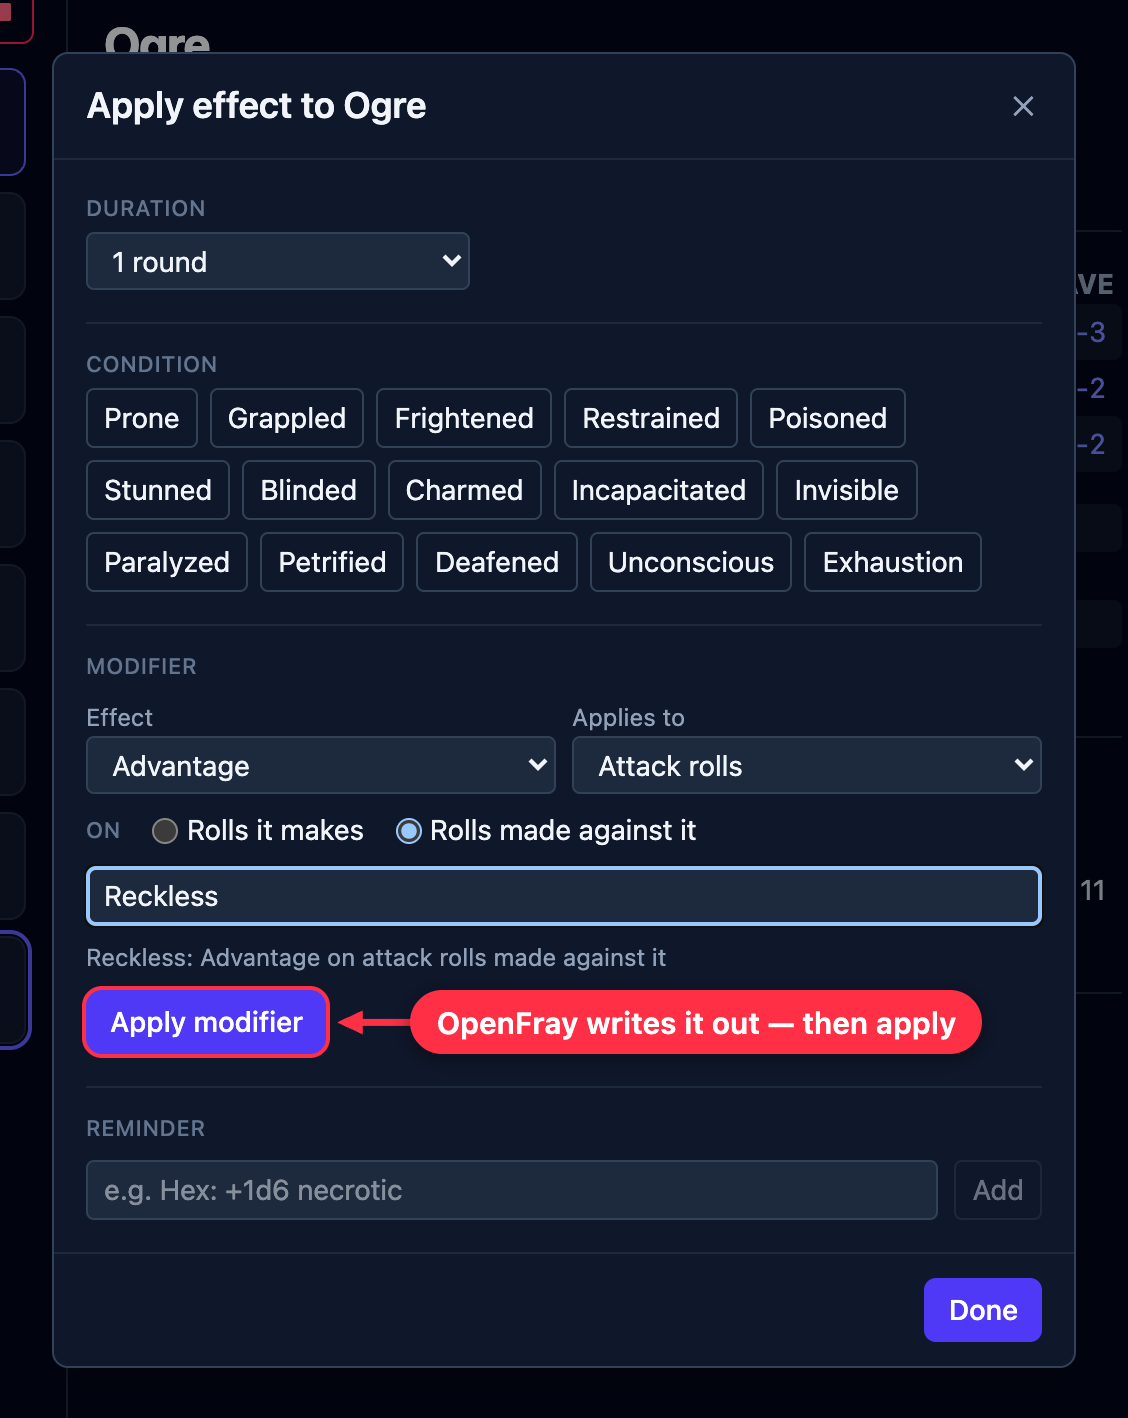
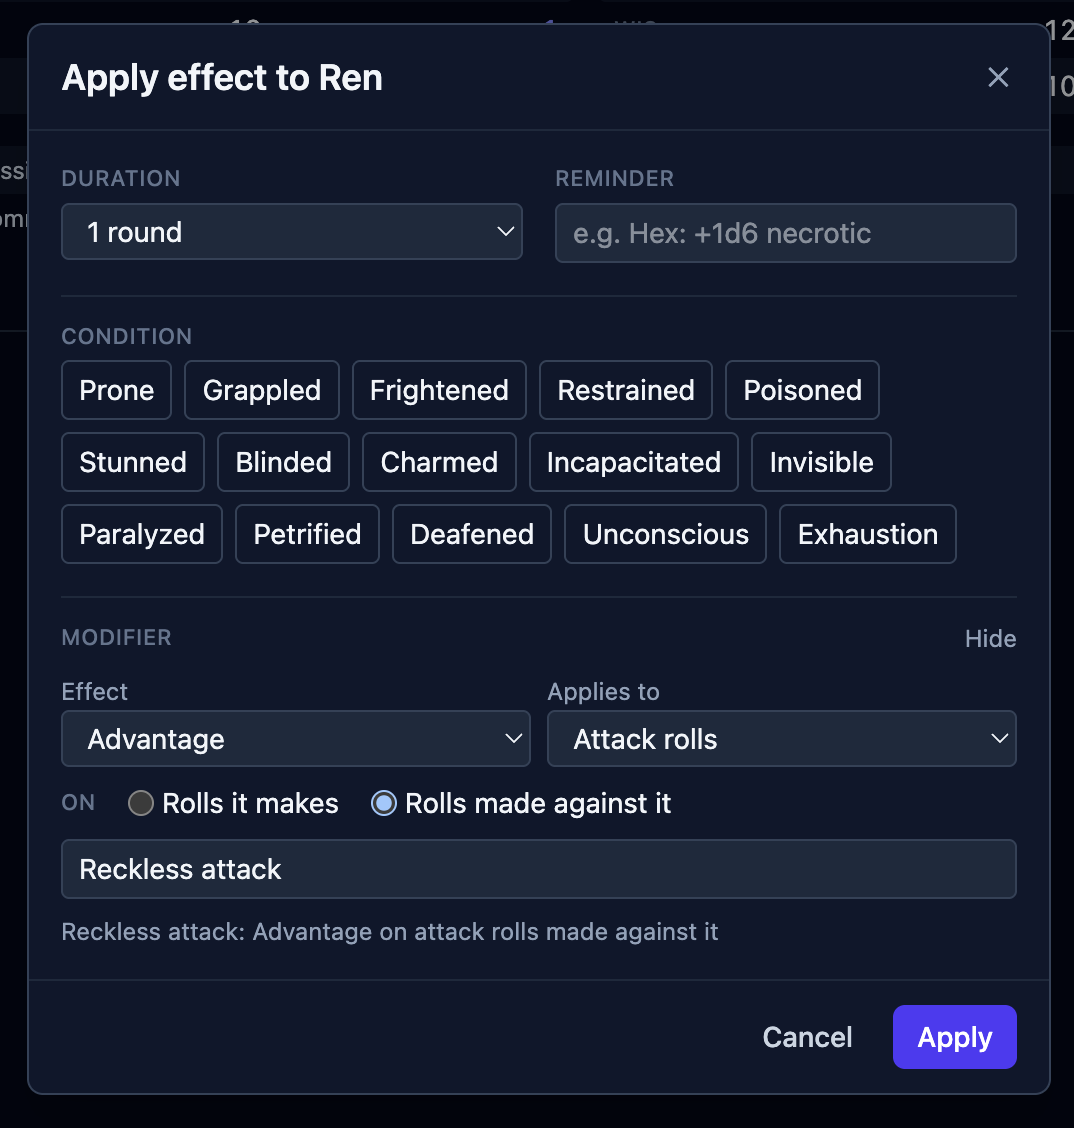
Handbook: screenshots and alt text through the Running a fight section
Captures the screenshots the Spells, Concentration, Creature resources, and
Rests pages were waiting on, and writes alt text for all of them (plus the
new Effects modifier-builder shot). Also picks up the re-shot images the
review replaced along the way.

diff --git a/docs/src/content/docs/fight/effects.md b/docs/src/content/docs/fight/effects.md
@@ -31,8 +31,7 @@ put several things on the same creature before closing it.
 
 ![The Apply effect box, with its duration, condition, modifier and reminder sections outlined in red and numbered one to four.](../../../assets/screens/apply-effect.png)
 
-**1 · Set how long it lasts, first.** This one setting applies to everything you add
-while the box is open, so start here:
+**1. Set how long it lasts.** This setting applies to everything you add while the box is open, so start here:
 
 | Choice                      | Use it for                                                                                                                                                  |
 | --------------------------- | ----------------------------------------------------------------------------------------------------------------------------------------------------------- |
@@ -44,59 +43,58 @@ while the box is open, so start here:
 Change it later and everything you've already added in this box changes with it — so
 it's fine to tap a condition first and pick the duration after.
 
-**2 · Tap a condition.** Prone, Grappled, Frightened, and the rest. These are toggles:
-the ones already on the creature are highlighted, and tapping one again takes it off.
+**2. Set a reminder.** Type in a short note. OpenFray shows it in the **tracker row** for that combatant and reminds you; you decide what it does.
 
-**3 · Or build a bonus.** Three dropdowns make a sentence — _what_ it does (advantage,
-disadvantage, or a number), _what it applies to_ (attacks, saves, checks, or everything),
-and _whose rolls_ (the creature's own, or rolls made against it). Give it a name, like
+**3. Apply a codition.** Optionally, add a condition. These are toggles: the ones already on the creature are highlighted, and tapping one again takes it off.
+
+**4. Add a bonus or penalty.** _What_ it does (advantage, disadvantage, or a number),
+_what it applies to_ (attack rolls, saving throws, ability checks, or everything),
+and _whose rolls_ (the combatant's own, or rolls made against it). Give it a name, like
 Bless or Reckless, so you recognize it on the board later. OpenFray spells out what
-you've built in plain English; press **Apply modifier** when it reads right.
+you've built in plain English.
 
-**4 · Or just leave a note.** For anything that doesn't fit the boxes above, type a
-reminder and press **Add**. OpenFray shows it and reminds you; you decide what it does.
+![The Modifier builder in the Apply effect box: an Effect and Applies-to dropdown, an On choice, a Label field, and a plain-English summary line.](../../../assets/screens/add-bous-penalty-effect.png)
+
+**5. Save the effect.** Click on **Apply** to add the effect, its conditions, and modifiers to the combatant.
 
 Whatever you've added is listed along the bottom of the box. **Done** closes it.
 
-:::tip[Casting a spell? Don't come here first]
-When a spell leaves something behind, **Cast spell** offers to put it on the board for
-you — already named, already timed, already linked to concentration. This box is for
-everything else: the things nothing in the app knows about. See
-[Spells](/docs/fight/spells/).
+:::tip[Casting a spell?]{icon="pen"}
+If you are casting a spell, use the **Cast spell** flow instead. It already applies
+all the conditions, modifiers, and timers for you. This box is for everything else
+that OpenFray doesn't already know about. See [Spells](/docs/fight/spells/).
 :::
 
-## Two worked examples
+### Two examples
 
-### "I attack recklessly"
+#### Reckless Attack
 
 The barbarian's player announces it. There's no spell to cast and nothing on any stat
-block — but for the rest of the round, attacks against him land more easily, and that's
-the sort of thing you'll otherwise forget by the time the ogre swings.
+block — but for the rest of the round, attacks against them land more easily, and that's
+the sort of thing you'll otherwise forget by the time the enemy swings.
 
-![The Apply effect box set up for Reckless: Advantage on attack rolls made against it, with the summary line and Apply modifier.](../../../assets/screens/example-reckless.png)
+![The Apply effect box set up for Reckless: Advantage on attack rolls made against it, with the summary line text.](../../../assets/screens/example-reckless.png)
 
-1. Click the barbarian, then **Apply effect**.
-2. **Duration → 1 round**, so it clears itself when his turn comes round again.
-3. In **Modifier**: _Advantage_ · on _Attack rolls_ · on **Rolls made against it**. That
-   last choice is the one to get right — it's not his attacks that change, it's everyone
-   else's attacks on him.
-4. Name it **Reckless**, so the badge on his row says why.
-5. Check the line OpenFray writes back — _"Reckless: Advantage on attack rolls made
-   against it"_ — and press **Apply modifier**.
+1. Click the player's character, then **Apply effect**.
+2. **Duration → 1 round**, so it clears itself when their turn comes round again.
+3. Click on **Add a bonus or penatly** to add the modifier.
+4. Set the **Effect** to **Advantage**, **Applies to** to **Attack rolls** and **On** to **Rolls made against it**.
+5. Set the label to **Reckless attack**, so the badge on their row says why.
+6. Click **Apply**.
 
-Now when the ogre swings at him, OpenFray rolls with advantage on its own, shows both
-dice, and names Reckless as the reason.
+Now when the a creature swings at them, OpenFray rolls with advantage on its own, shows both
+dice, and names _Reckless attack_ as the reason.
 
 ### Something you just made up
 
-A flask of oil goes over the floor. There's no condition for that and no spell involved —
+A creature throws a flask of oil on a player and they are now covered in oil. There's no condition for that and no spell involved —
 you just don't want to forget it two rounds from now.
 
 ![The Apply effect box with a free-text reminder typed into the Reminder field.](../../../assets/screens/example-reminder.png)
 
-1. Click whoever is standing in it, then **Apply effect**.
+1. Click on the player, then **Apply effect**.
 2. **Duration → Until removed**, because it ends when the story says so.
-3. Type the note in **Reminder** and press **Add**.
+3. Type the note in **Reminder** and press **Apply**.
 
 It becomes a badge on their row like any other effect. OpenFray shows the reminder and
 keeps it in front of you until you clear it, but it doesn't apply any effect for you — a
@@ -104,7 +102,7 @@ reminder is a note, and you decide what it means.
 
 ## Where effects show up
 
-Each effect shows as a small **badge** under the creature's name in the tracker — just
+Each effect and reminder shows as a small **badge** under the combatants's name in the tracker — just
 the name, so the row stays easy to read at a glance.
 
 ![A tracker row for an Ogre with a Frightened badge under its name, outlined in red.](../../../assets/screens/effect-badge.png)
@@ -117,15 +115,16 @@ There, each effect shows how it ends and carries its own buttons.
 - **Clear** removes it.
 - For an effect that ends on a save, **Roll save** rolls it, and the line shows the
   ability and number needed.
+- **Clear effects** removes all the applied effects at once.
 
 ## How long effects last
 
-Every effect knows when it ends, and the Applied effects list tells you:
+Every effect knows when it ends, and the **Applied effects** list tells you:
 
 - effects that last a number of **rounds** count down and show what's left ("10 rounds
-  left"); once that's more than about ten minutes, it shows the time instead ("1 hour
+  left"); if it's more than about ten minutes, it shows the time instead ("1 hour
   left");
-- **ends on a save** shows the ability and number, like `WIS save DC 15`;
+- **ends on a save** shows the ability and number, like `WIS save DC 15 (EoT)`;
 - some clear the next time the creature rolls (Vicious Mockery);
 - some clear when the creature that caused them takes its next turn;
 - the rest stay until you clear them, and keep the spell's own wording where OpenFray
@@ -134,8 +133,8 @@ Every effect knows when it ends, and the Applied effects list tells you:
 ### Effects a saving throw ends
 
 Some effects hang on until the creature makes a saving throw — a paralysis, an ongoing
-burn. Each one gets **its own** save: two effects that happen to need the same number
-still roll separately, because they came from different sources. On a creature's turn,
+burn. Each one gets **its own** save: two effects that happen to need the same save and DC
+still roll separately. On a creature's turn,
 OpenFray rolls these for you, at the start or end of the turn as you chose. For a player,
 use **Roll save** to record their roll, or just **Clear** it when they pass.
 

diff --git a/docs/src/content/docs/fight/resources.md b/docs/src/content/docs/fight/resources.md
@@ -14,30 +14,28 @@ Every creature gets one reaction a round — an opportunity attack, a readied ac
 _Shield_ spell. In the controls beside the stat block, click **Use reaction** when it
 spends one; the button changes to **Reaction used**.
 
-<!-- TODO screenshot: reaction-toggle.png — the reaction control. Highlight: Use reaction / Reaction used. -->
-
-<!-- ![The reaction control in the creature's controls, showing Use reaction, outlined in red.](../../../assets/screens/reaction-toggle.png) -->
+![A creature's Use reaction control being clicked in the controls beside its stat block.](../../../assets/screens/use-reaction.gif)
 
 The reaction refreshes at the **start of that creature's next turn**, so you don't have to
-reset it by hand.
+reset it by hand, although you can if you used it by mistake.
 
 ## Legendary actions
 
 A legendary creature can act between other creatures' turns. Its stat block has a
 **Legendary Actions** section, headed with how many it has this round — for example,
-_Legendary Actions (3/round)_.
+_Legendary Actions (3 of 3 left)_.
 
-<!-- TODO screenshot: legendary-actions.png — the Legendary Actions section in combat. Highlight: the "(3/round)" budget and a clickable action. -->
-
-<!-- ![The Legendary Actions section of a stat block in combat, with the per-round budget and a clickable action outlined in red.](../../../assets/screens/legendary-actions.png) -->
+![A dragon's Legendary Actions section headed "Legendary Actions (3 of 3 left)", listing three clickable actions.](../../../assets/screens/legendary-actions.png)
 
 Click a legendary action to spend it. Each one has a cost, and the header counts down as
 you spend from the round's budget. If the action rolls something — an attack, a save — it
 opens the [attack](/docs/fight/attacks/) or [save](/docs/fight/saves/) box. The budget
 refreshes at the start of the creature's turn.
 
-A creature with lair actions has a larger budget **in its lair**; the **In lair** toggle
-(below) switches to those counts.
+A creature with legendary actions has a larger budget **in its lair**; The **In lair** toggle marks the creature as fighting in its lair. It swaps to the lair
+counts for legendary resistance and legendary actions, which are often higher there.
+
+![The In lair checkbox, checked and outlined in red, beside the Use Legendary Resistance button in a creature's controls.](../../../assets/screens/lair-toggle.png)
 
 ## Legendary resistance
 
@@ -45,16 +43,13 @@ A creature with **Legendary Resistance** can turn a failed saving throw into a s
 times a day. Its stat block shows the section with a counter — _Legendary Resistance (3
 left)_ — and the controls have a **Use Legendary Resistance** button.
 
-<!-- TODO screenshot: legendary-resistance.png — the Legendary Resistance section and controls. Highlight: the "(N left)" header, Use Legendary Resistance, In lair. -->
-
-<!-- ![The Legendary Resistance counter and the Use Legendary Resistance button, with the In lair toggle, outlined in red.](../../../assets/screens/legendary-resistance.png) -->
+![The Legendary Resistance counter and the Use Legendary Resistance button, with the In lair toggle, outlined in red.](../../../assets/screens/legendary-resistance.png)
 
 You can spend it two ways: press **Use Legendary Resistance** directly, or, when the
 creature fails a save in the [save box](/docs/fight/saves/#turning-a-failed-save-into-a-success),
 convert that failure to a success there. Either way spends one use.
 
-The **In lair** toggle marks the creature as fighting in its lair. It swaps to the lair
-counts for legendary resistance and legendary actions, which are often higher there.
+![Resolving a Fireball save: after the Adult Blue Dragon fails, a red-outlined "Use LR (4)" button converts the failure into a success.](../../../assets/screens/effect-legendary-resistance.png)
 
 ## Recharge abilities
 
@@ -62,9 +57,7 @@ Some abilities — a breath weapon, a bite — come back on a die roll, shown as
 5–6** on the stat block. Use it and it grays out, spent. On the creature's next turn,
 OpenFray rolls to see whether it recharges, and makes it available again if it does.
 
-<!-- TODO screenshot: recharge.png — a recharge ability, spent and grayed out. Highlight: the "Recharge 5–6" label and the spent state. -->
-
-<!-- ![A recharge ability in a stat block, labeled Recharge 5–6 and grayed out after use, outlined in red.](../../../assets/screens/recharge.png) -->
+![A recharge ability in a stat block, labeled Recharge 5–6 and grayed out after use, outlined in red.](../../../assets/screens/spent-recharge-ability.png)
 
 ## Limited-use actions and spells
 

diff --git a/docs/src/content/docs/fight/spells.md b/docs/src/content/docs/fight/spells.md
@@ -12,7 +12,7 @@ or from the **Cast spell** button, adding a spell's effect, and rolling a group'
 There are two ways to cast.
 
 **From a creature.** Open its stat block and click a spell in its list. OpenFray fills in
-the save number and attack bonus from that creature, and spends one casting: an _At will_
+the save DC and attack bonus from that creature, and spends one casting: an _At will_
 spell is unlimited, while a _2/Day Each_ spell counts down per spell — burning a Fireball
 leaves its Invisibility untouched — and grays out when it's spent.
 
@@ -24,6 +24,8 @@ pick, because a stat block doesn't have spell slots to spend.
 **From the Cast spell button**, at the top of the screen. Search any spell — every spell
 in the [rule sets you've turned on](/docs/reference/settings/#rule-sets), plus your own —
 then pick **who is casting it**.
+
+![The Cast spell button outlined in red, its modal open with a caster picker set to Zara, a spell search, and a badged spell list.](../../../assets/screens/cast-spell-modal.png)
 
 Naming a caster is worth doing: OpenFray takes their save DC and spell attack bonus, and
 if the spell needs concentration it starts the caster concentrating, with the timer
@@ -48,7 +50,7 @@ you don't have to build it by hand:
 - **Hold Person** → Paralyzed, with the saving throw already set up;
 - **Mage Armor** → the new armor class, worked out from the target's Dexterity.
 
-Spells that only affect the caster (like Speak with Animals) go straight onto them — no
+Spells that only affect the caster (_Range: Self_, like Speak with Animals) go straight onto them — no
 need to pick a target. For a saving throw spell, OpenFray offers to put the effect on the
 creatures that **failed**.
 
@@ -58,11 +60,9 @@ change or clear it any time. For spells that only add extra damage (like Hex), y
 reminder badge — you add the extra dice yourself when you roll.
 :::
 
+![Casting Banishment: after the Ogre fails its save, the box offers to apply Banishment to the creatures that failed, dropping Incapacitated on them.](../../../assets/screens/gm-cast-spell.png)
+
 Every spell you cast is written into the log. When a spell needs concentration, OpenFray
 marks it as such, so ending concentration clears it everywhere at once.
 
-## Group saves
-
-A saving throw spell — a _Fireball_ that a whole group rolls against at once — opens the
-**group save** box, filled in from the spell. Rolling a group's save, with resistances and
-Evasion handled for you, has its own page: [Saving throws](/docs/fight/saves/#group-saves).
+![The game log with "Zara concentrates on Banishment" recorded below the Ogre's failed CHA save.](../../../assets/screens/game-log-spell-casted.png)

diff --git a/docs/src/content/docs/fight/concentration.md b/docs/src/content/docs/fight/concentration.md
@@ -14,13 +14,11 @@ In the controls beside a creature's stat block, click **Concentrate**. You can a
 spell's name and, if you like, how long it lasts. Casting a concentration spell from
 [Cast spell](/docs/fight/spells/) starts this for you, with the timer already counting.
 
-<!-- TODO screenshot: concentration.png — a concentrating creature (the Concentrate control / badge) and the concentration-check prompt after damage. Highlight: the Concentrate control or badge, and the "Concentration — DC N" prompt. -->
+![The Concentrate control in use, with the game log recording a creature starting and ending concentration.](../../../assets/screens/set-concentration.gif)
 
-<!-- ![The Concentrate control and a creature's concentration badge, with the concentration check prompt after damage, outlined in red.](../../../assets/screens/concentration.png) -->
+## Ending concentration
 
-## Ending concentration clears the spell
-
-Concentration is what keeps the spell going, so **ending it removes that spell's effects
+Concentration is what keeps a spell going, so **ending it removes that spell's effects
 from everyone at once**. Break the caster's concentration on _Bless_ and all three blessed
 allies lose it together — you don't clear each one by hand.
 
@@ -38,3 +36,5 @@ and prompts you on the creature's row:
   own, and you tap **Maintained** or **Broken**.
 
 Breaking concentration this way clears the spell's effects just like ending it by hand.
+
+![The concentration-check prompt reading "Concentration — DC 10" with Maintained, Broken, and Roll CON save buttons in the controls.](../../../assets/screens/keep-concentration.png)

diff --git a/docs/src/content/docs/fight/rests.md b/docs/src/content/docs/fight/rests.md
@@ -59,6 +59,8 @@ mid-fight:
 - the **skull** removes _everyone_ and starts fresh — it also clears the game log, so use
   it when you're done with that story entirely.
 
+![The skull and broom at the top of the tracker, labeled in red "Remove everyone" and "Remove foes only".](../../../assets/screens/clear-board.png)
+
 Both ask before they do it.
 
 :::note[Stop is not the same as clearing]
